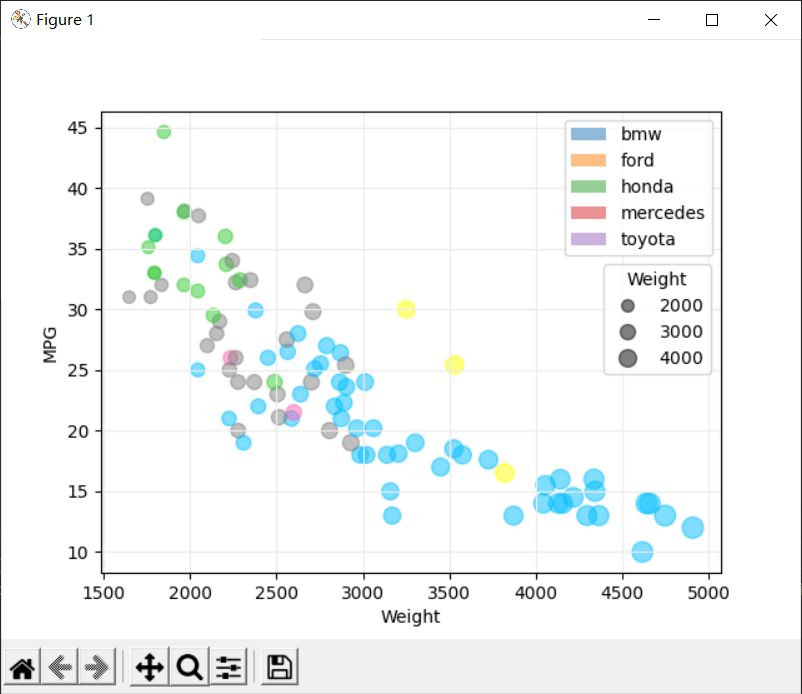
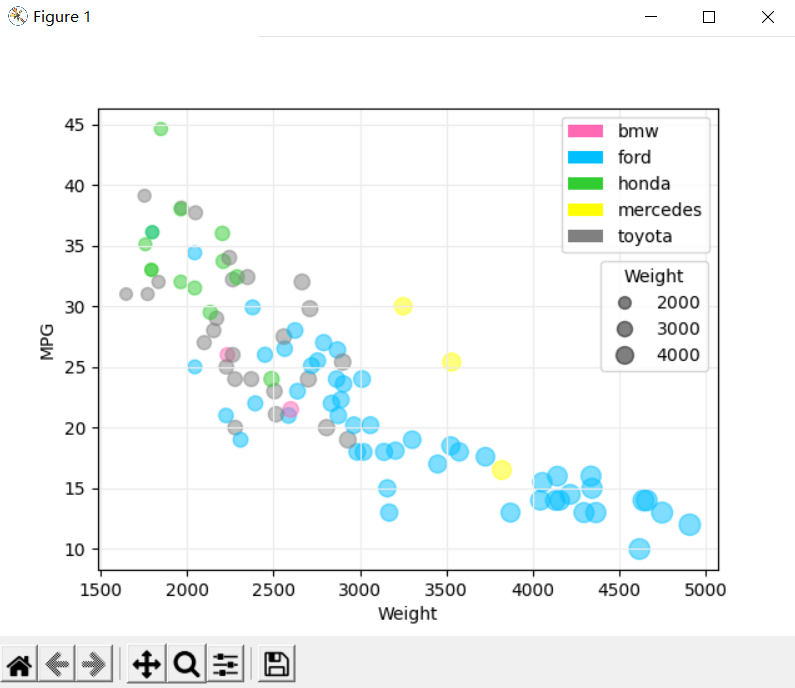
Upload Python

diff --git a/Python/A2-Python.py b/Python/A2-Python.py
@@ -36,7 +36,7 @@ ax.set_xlabel('Weight')
 plt.grid(color = '#ECECEC')
 
 classes = ['bmw','ford','honda','mercedes','toyota']
-class_colours = ['#2377B480','#FF7F0E80','#2CA02C80','#D6272880','#9467BD80']
+class_colours = ['#FF69B4','#00BFFF','#32CD32','#FFFF00','#808080']
 recs = []
 for i in range(0, len(class_colours)):
     recs.append(mpatches.Rectangle((0,0),1,1,fc = class_colours[i]))
